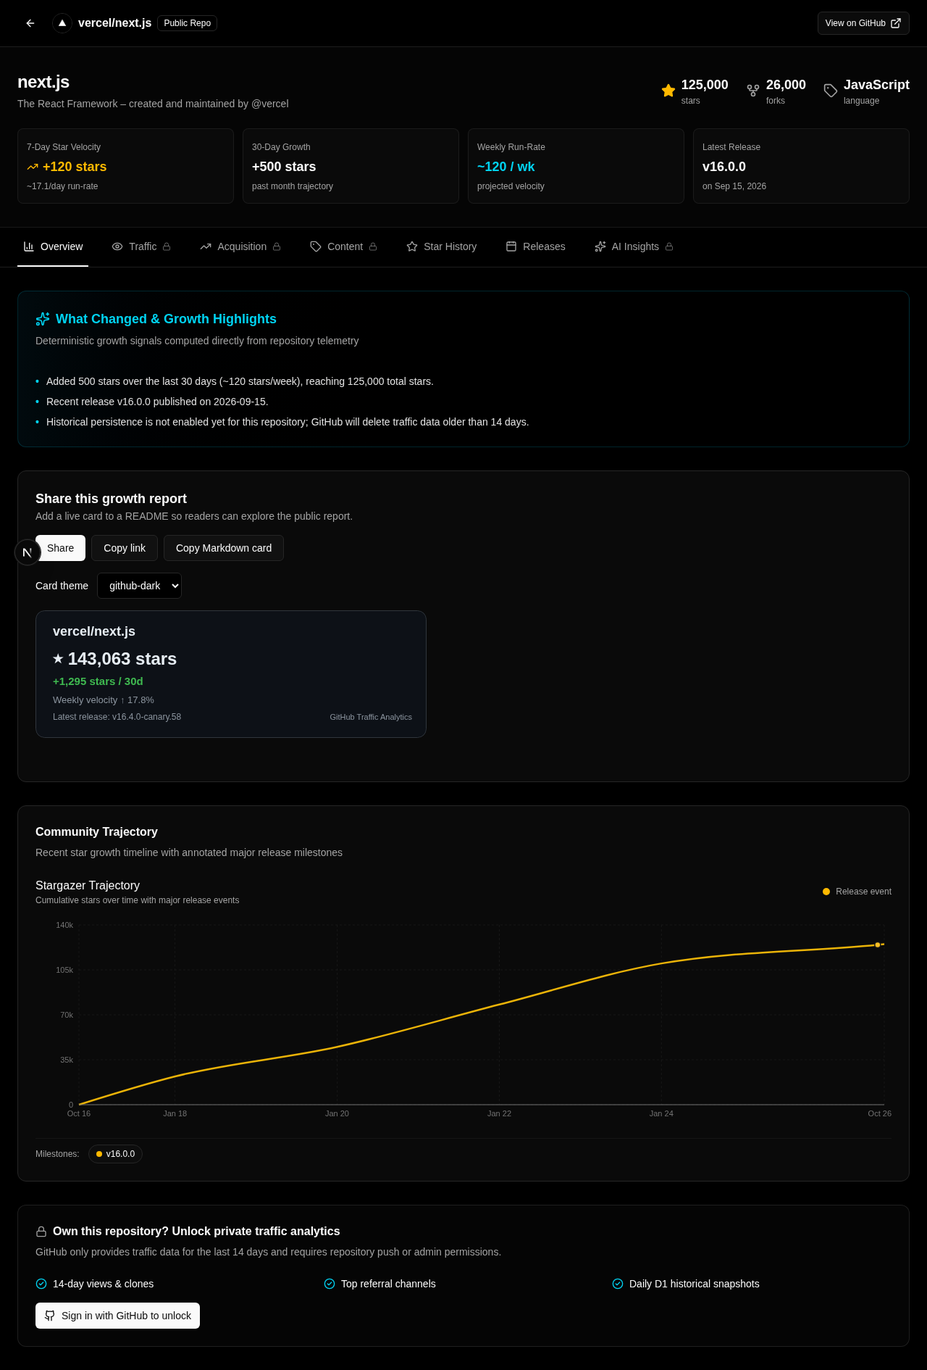
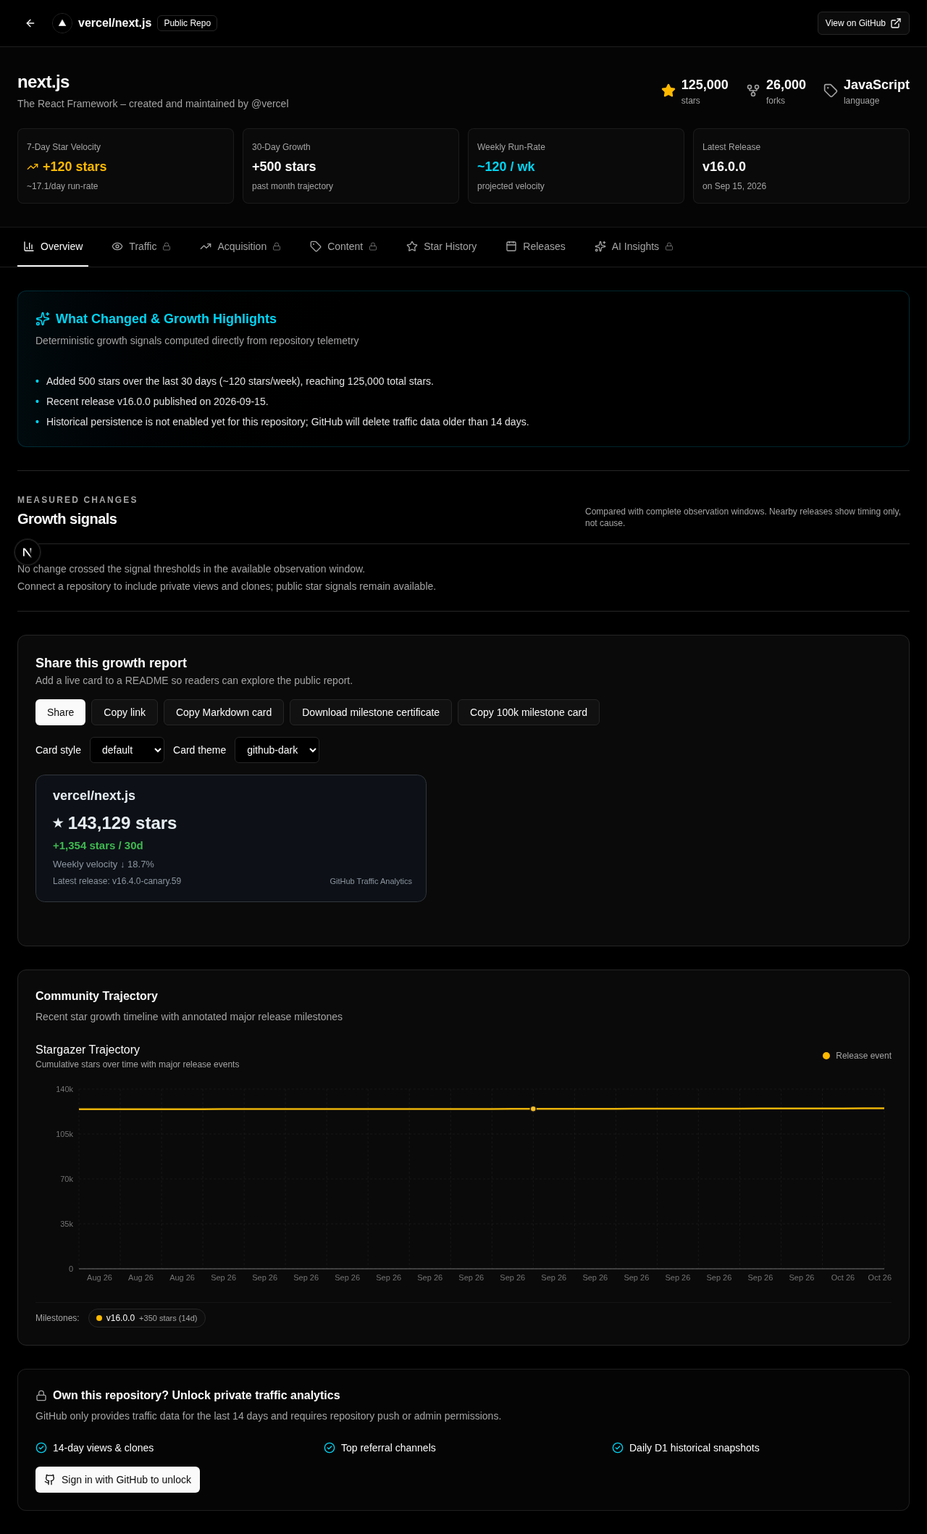
docs: add contributor guide, ADRs, changelog, and test hardening

diff --git a/src/app/api/certificate/[owner]/[repo]/route.ts b/src/app/api/certificate/[owner]/[repo]/route.ts
@@ -21,14 +21,20 @@ export async function GET(
     parsed.repo !== repo ||
     (value !== null && !isStarMilestone(Number(value)))
   ) {
-    return new Response("Invalid repository or milestone", { status: 400 });
+    return new Response("Invalid repository or milestone", {
+      status: 400,
+      headers: { "Cache-Control": "private, no-store" },
+    });
   }
   try {
     const analysis = await publicGitHub.analyzePublicRepository(owner, repo);
     const milestone =
       value === null ? getHighestMilestone(analysis.repository.starsCount) : Number(value);
     if (!milestone || analysis.repository.starsCount < milestone || !isStarMilestone(milestone)) {
-      return new Response("Repository has not reached this milestone", { status: 409 });
+      return new Response("Repository has not reached this milestone", {
+        status: 409,
+        headers: { "Cache-Control": "private, no-store" },
+      });
     }
     const svg = renderCertificate({
       fullName: analysis.repository.fullName,
@@ -48,9 +54,18 @@ export async function GET(
     });
   } catch (error) {
     if (error instanceof PublicRepoNotFoundError)
-      return new Response("Repository not found or private", { status: 404 });
+      return new Response("Repository not found or private", {
+        status: 404,
+        headers: { "Cache-Control": "private, no-store" },
+      });
     if (error instanceof PublicRepoRateLimitError)
-      return new Response("GitHub rate limit reached", { status: 503 });
-    return new Response("Certificate temporarily unavailable", { status: 503 });
+      return new Response("GitHub rate limit reached", {
+        status: 503,
+        headers: { "Cache-Control": "private, no-store" },
+      });
+    return new Response("Certificate temporarily unavailable", {
+      status: 503,
+      headers: { "Cache-Control": "private, no-store" },
+    });
   }
 }

diff --git a/tests/e2e/public-repo.spec.ts b/tests/e2e/public-repo.spec.ts
@@ -48,6 +48,12 @@ test.describe("Public Repository Growth Intelligence", () => {
     await expect(page.getByRole("button", { name: "Copy link" })).toBeVisible();
     await expect(page.getByRole("button", { name: "Copy Markdown card" })).toBeVisible();
     await expect(page.getByRole("button", { name: "Copy 100k milestone card" })).toBeVisible();
+    const certificateLink = page.getByRole("link", { name: "Download milestone certificate" });
+    await expect(certificateLink).toBeVisible();
+    await expect(certificateLink).toHaveAttribute(
+      "href",
+      "/api/certificate/vercel/next.js?milestone=100000"
+    );
     const growthCard = page.locator('img[src*="/api/card/vercel/next.js"]');
     await expect(growthCard).toBeVisible();
     await page.getByLabel("Card style").selectOption("sparkline");

diff --git a/src/components/ShareActions.tsx b/src/components/ShareActions.tsx
@@ -91,7 +91,7 @@ export default function ShareActions({
           Copy Markdown card
         </Button>
         {milestone && milestonePath && (
-          <Button asChild type="button" variant="outline">
+          <Button asChild variant="outline">
             <a
               href={`/api/certificate/${encodeURIComponent(owner)}/${encodeURIComponent(repo)}?milestone=${milestone}`}
               download

diff --git a/CONTRIBUTING.md b/CONTRIBUTING.md
@@ -9,38 +9,52 @@ Thank you for your interest in improving GitHub Traffic Analytics! We are buildi
 ## 🏗 Codebase Structure
 
 ```text
-src/
-├── app/
-│   ├── api/
-│   │   ├── card/[owner]/[repo]/ # Embeddable README SVG growth card generator
-│   │   ├── badge/               # Shields-style live views badge endpoint
-│   │   ├── public/repo/         # Unauthenticated public repository intelligence API
-│   │   ├── insights/            # Contextual AI streaming endpoint (Anthropic)
-│   │   ├── traffic/             # Authenticated GitHub traffic data proxy
-│   │   ├── track/               # Toggle snapshot tracking per repo
-│   │   ├── repositories/        # User repository listing with tracking status
-│   │   └── snapshots/           # Historical D1 snapshot queries
-│   ├── repo/[owner]/[repo]/     # Public canonical repository intelligence page
-│   ├── compare/                 # Multi-repository comparative trajectory analysis
-│   ├── repositories/            # Authenticated repository manager & portfolio view
-│   ├── traffic/                 # Authenticated 14-day & long-term traffic dashboard
-│   ├── page.tsx                 # Public homepage & instant repo analyzer
-│   └── layout.tsx               # Root application layout & navigation
-├── components/
-│   ├── StarHistoryChart.tsx     # Trajectory line chart with release event markers
-│   ├── ShareActions.tsx         # Share modal, copy link, and copy Markdown card
-│   ├── InsightsPanel.tsx        # Contextual AI explanation buttons
-│   ├── HistoricalTraffic.tsx    # Multi-month D1 historical views & clones chart
-│   └── TrafficDashboard.tsx     # Private traffic analytics visualization
-├── lib/
-│   ├── analytics.ts             # Deterministic math engine (velocity, momentum, release impact)
-│   ├── github-public.ts         # Unauthenticated typed public GitHub API client & cache
-│   ├── github.ts                # Authenticated Octokit traffic proxy
-│   ├── growth-card.ts           # Zero-dependency SVG generator & themes
-│   ├── badge.ts                 # Zero-dependency SVG shields badge renderer
-│   ├── insights.ts              # Zod validation & deterministic prompt construction for AI
-│   └── snapshots.ts             # Cloudflare D1 query layer for daily snapshots
-└── test/                        # Shared test setup, MSW handlers, and mocks
+├── action/                      # Standalone GitHub Action for traffic archiving into git branch
+├── integrations/
+│   ├── gh-traffic/              # Official GitHub CLI extension (`gh traffic view/compare/export`)
+│   ├── mcp-server/              # Model Context Protocol server for AI coding agents
+│   └── raycast/                 # Native Raycast macOS extension
+├── src/
+│   ├── app/
+│   │   ├── api/
+│   │   │   ├── card/            # Zero-dependency SVG cards (growth, comparison, milestone)
+│   │   │   ├── certificate/     # Milestone completion SVG certificates
+│   │   │   ├── badge/           # Shields-style live views badge endpoint
+│   │   │   ├── public/repo/     # Unauthenticated public repository intelligence API
+│   │   │   ├── v1/              # Versioned REST API v1 (`/api/v1/repositories/...`, `/api/v1/compare`)
+│   │   │   ├── report/          # Neutral weekly report delivery preview & scheduling
+│   │   │   ├── alerts/          # Webhook notifications (Slack, Discord)
+│   │   │   ├── digest/          # Email digest preferences and delivery
+│   │   │   ├── github-app/      # GitHub App setup & webhook handlers
+│   │   │   ├── traffic/         # Authenticated GitHub traffic data proxy
+│   │   │   ├── track/           # Toggle snapshot tracking per repo
+│   │   │   ├── repositories/    # User repository listing with tracking status
+│   │   │   └── snapshots/       # Historical D1 snapshot queries & CSV/JSON export
+│   │   ├── repo/[owner]/[repo]/ # Public canonical repository intelligence page
+│   │   ├── compare/             # Multi-repository comparative trajectory analysis
+│   │   ├── launch/[owner]/[repo]# Shareable launch event impact reports
+│   │   ├── repositories/        # Authenticated repository manager & portfolio view
+│   │   ├── traffic/             # Authenticated 14-day & long-term traffic dashboard
+│   │   ├── page.tsx             # Public homepage & instant repo analyzer
+│   │   └── manifest.ts          # PWA web app manifest
+│   ├── components/              # Shared UI components (Charts, Cards, Panels, Settings)
+│   ├── lib/
+│   │   ├── analytics.ts         # Deterministic math engine (velocity, momentum, release impact)
+│   │   ├── anomalies.ts         # Explainable anomaly detection engine
+│   │   ├── weekly-report.ts     # Delivery-neutral weekly analytics report generator
+│   │   ├── github-public.ts     # Unauthenticated typed public GitHub API client & cache
+│   │   ├── github.ts            # Authenticated Octokit traffic proxy
+│   │   ├── webhook-alerts.ts    # Slack / Discord webhook notification dispatcher
+│   │   ├── growth-card.ts       # Zero-dependency SVG generator & themes
+│   │   ├── comparison-card.ts   # Two-repository SVG comparison card renderer
+│   │   ├── milestone-card.ts    # Star milestone badge & threshold logic
+│   │   ├── certificate.ts       # Social milestone certificate SVG renderer
+│   │   └── snapshots.ts         # Cloudflare D1 query layer for daily snapshots
+│   └── test/                    # Shared MSW handlers, deterministic mock data, and test setup
+├── worker/
+│   ├── snapshot.ts              # Daily Cloudflare Cron Worker (traffic snapshotting)
+│   └── digest.ts                # Weekly Monday Cron Worker (email digests & alerts)
+└── docs/                        # Project documentation, launch kit, and ADRs
 ```
 
 ---
@@ -109,6 +123,45 @@ To add a new theme:
 
 ---
 
+## 🚨 How to Add a Deterministic Growth Signal
+
+Growth signals and anomalies in [`src/lib/anomalies.ts`](src/lib/anomalies.ts) provide explainable insights on traffic, stars, clones, and referrers without opaque heuristics:
+
+1. Define the signal type in `GrowthSignal['type']`.
+2. Implement the deterministic detection logic comparing observation windows against baseline history.
+3. Include explainable human-readable reasoning and release context when available.
+4. Add unit tests in [`src/lib/anomalies.test.ts`](src/lib/anomalies.test.ts) testing threshold edges and zero baselines.
+
+---
+
+## 🔔 How to Add a Notification Provider
+
+Webhook notifications are dispatched deterministically in [`src/lib/webhook-alerts.ts`](src/lib/webhook-alerts.ts):
+
+1. Define provider format in `WebhookPlatform` (`slack`, `discord`, `custom`).
+2. Construct payload adhering to the platform's incoming webhook schema.
+3. Ensure webhook URLs are stored encrypted in Cloudflare D1 (`app_alert_webhooks`) via [`src/lib/webhook-secrets.ts`](src/lib/webhook-secrets.ts).
+4. Add unit tests verifying delivery formatting and error handling.
+
+---
+
+## 🔌 Working with Integrations
+
+- **GitHub CLI Extension (`integrations/gh-traffic`)**: Standalone CLI extension wrapping public and authenticated endpoints. Test with `node index.js view owner/repo`.
+- **MCP Server (`integrations/mcp-server`)**: Model Context Protocol server exposing `analyze_repo_growth` and `explain_repo_changes` to agentic tools (Antigravity, Cursor, Claude Code). Run `pnpm --ignore-workspace build` and test with standard MCP JSON-RPC.
+- **Raycast Extension (`integrations/raycast`)**: macOS command bar extension. Run `pnpm --ignore-workspace run build` and `tsc --noEmit`.
+- **Standalone Action (`action/`)**: Standalone GitHub Action archiving traffic to `traffic-history` branch. Test with `node action/index.mjs`.
+
+---
+
+## 🧪 Test-Data Conventions
+
+- **Never mock external APIs with live network calls**: Use MSW (`src/test/msw.ts`) or `vi.fn()` for all Octokit/GitHub REST requests.
+- **Deterministic timestamps**: Always freeze time or use static ISO strings (`2026-10-01T00:00:00Z`) when testing date-dependent formulas.
+- **Explicit error paths**: Always verify 400, 404, 409, 429, and 503 scenarios with appropriate `Cache-Control: private, no-store` responses.
+
+---
+
 ## 🧪 Running Tests & Quality Gates
 
 All pull requests must pass the project's quality gates:
@@ -120,17 +173,26 @@ pnpm lint
 # 2. TypeScript compilation
 pnpm typecheck
 
-# 3. Unit and component tests with coverage (must satisfy ≥ 80% thresholds)
+# 3. Code formatting check
+pnpm format:check
+
+# 4. Unit and component tests with coverage (must satisfy ≥ 80% thresholds)
 pnpm test:coverage
 
-# 4. Production Next.js build
+# 5. Production Next.js build
 pnpm build
 
-# 5. Playwright end-to-end test suite
-pnpm test:e2e
+# 6. Playwright end-to-end test suite
+CI=true pnpm test:e2e
 
-# 6. Documentation site build
-cd docs && pnpm install --frozen-lockfile && pnpm build && cd ..
+# 7. Cloudflare Worker OpenNext bundle build
+SKIP_ENV_VALIDATION=true pnpm cf:build
+
+# 8. Production dependency security audit
+pnpm audit --prod
+
+# 9. Documentation site build
+cd docs && pnpm install --ignore-workspace --frozen-lockfile && pnpm build && cd ..
 ```
 
 ---

diff --git a/CHANGELOG.md b/CHANGELOG.md
@@ -1,0 +1,49 @@
+<!-- SPDX-License-Identifier: MIT -->
+
+# Changelog
+
+All notable changes to this project will be documented in this file.
+The format is based on [Keep a Changelog](https://keepachangelog.com/en/1.0.0/),
+and this project adheres to [Semantic Versioning](https://semver.org/spec/v2.0.0.html).
+
+## [2.0.0] - 2026-10-04
+
+### 🌟 Public Growth Intelligence Engine
+
+- **Zero-Login Public Analysis (`/repo/[owner]/[repo]`)**: Instant growth intelligence for any public GitHub repository without sign-in or OAuth scopes.
+- **Deterministic Velocity & Momentum**: 7-day velocity, 30-day velocity, weekly run-rate, moving averages, and transparent 0–100 momentum score based on acceleration ratios.
+- **Release Event Timeline & Impact**: Temporal association analysis measuring repository star velocity in a 14-day pre-release vs 14-day post-release window with strictly non-causal language.
+- **Shareable Launch Reports (`/launch/[owner]/[repo]?tag=...`)**: Public launch impact summaries with before/after velocity deltas and share actions.
+- **Multi-Repository Comparison (`/compare?repos=...`)**: Side-by-side growth trajectory comparison for 2–4 repositories with shareable URL state.
+- **Embeddable README Growth Cards (`/api/card/[owner]/[repo]`)**: Zero-dependency SVG cards with default and sparkline variants across six developer themes (`github-dark`, `github-light`, `transparent`, `dracula`, `nord`, `catppuccin`).
+- **Two-Repository Comparison Cards (`/api/card/compare?a=...&b=...`)**: Dynamic README SVG comparing stars, 7d/30d growth, and weekly run-rates between two repositories.
+- **Verified Star Milestone Cards (`/api/card/milestone/[owner]/[repo]`)**: Shareable SVG cards celebrating verified repository star milestones (100, 500, 1k, 5k, 10k, 25k, 50k, 100k, 250k, 500k, 1M). Rejects milestones not yet reached.
+- **Milestone Vector Certificates (`/api/certificate/[owner]/[repo]`)**: High-resolution downloadable SVG certificates for social announcements and maintainer portfolios.
+- **Dynamic OpenGraph & Twitter Unfurls**: Native Next.js 16 Edge OpenGraph image generation with live repository stars and velocity statistics.
+- **Contextual AI Explanations**: Server-side structured Claude Haiku streaming explaining precomputed telemetry without hallucinating math.
+
+### 🔒 Private Traffic Retention & Security
+
+- **14-Day Window Bypass**: Daily automated Cloudflare Cron Worker snapshotting views and clones into Cloudflare D1.
+- **Historical Traffic Dashboard**: Views, unique visitors, clones, unique cloners, top referrers, and popular content paths with multi-month historical persistence.
+- **Deterministic Anomaly Detection**: Explainable signals for traffic surges, clone spikes, referrer shifts, and release acceleration.
+- **CSV & JSON Snapshot Exports**: One-click download of all D1-persisted historical traffic snapshots for authorized repository owners.
+- **Weekly Delivery-Neutral Reports**: Complete-window weekly analytics summaries previewable by owners.
+- **Opt-in Weekly Email Digest**: Timezone-aware Monday morning email digest to verified GitHub emails with duplicate prevention and one-click unsubscribe.
+- **Encrypted Webhook Growth Alerts**: Instant Discord and Slack notifications on star milestones or traffic surges, with webhook URLs AES-GCM encrypted in D1.
+- **GitHub App Installation Tracking**: Support for organization-wide installation and fine-grained repository permissions without wide user OAuth scopes.
+- **Automated GitHub Discussion / Issue Delivery**: Scheduled delivery of weekly traffic summaries directly into repository discussions or tracking issues.
+
+### 🔌 Multi-Surface Developer Distribution
+
+- **Official GitHub CLI Extension (`gh traffic`)**: Query velocity, compare projects, and export snapshots directly from developer terminals (`gh traffic view`, `gh traffic compare`).
+- **Model Context Protocol (MCP) Server (`integrations/mcp-server`)**: Expose deterministic repository telemetry to AI coding agents (Antigravity, Cursor, Claude Code).
+- **Raycast macOS Extension (`integrations/raycast`)**: Instant keyboard-driven lookup of star velocity, comparisons, and one-click Markdown card copying.
+- **Standalone GitHub Action (`action/`)**: Zero-infrastructure traffic archiving to a `traffic-history` git branch.
+- **Versioned Public REST API v1 (`/api/v1/...`)**: Compact JSON endpoints for public repository intelligence and comparison.
+- **Progressive Web App (PWA)**: Web app manifest and mobile icon support for desktop and mobile installation.
+
+### ⚙ Architecture & Reliability
+
+- **Edge Runtime**: Migrated to Next.js 16 on Cloudflare Workers via `@opennextjs/cloudflare` with Cloudflare D1.
+- **Zero-Vulnerability Security Posture**: Production dependency audit verified with 0 vulnerabilities; strict input sanitization and XML escaping on all SVG endpoints.

diff --git a/docs/adr/0001-deterministic-analytics-core.md b/docs/adr/0001-deterministic-analytics-core.md
@@ -1,0 +1,38 @@
+<!-- SPDX-License-Identifier: MIT -->
+
+# ADR 0001: Deterministic Analytics Core
+
+## Status
+
+Accepted
+
+## Context
+
+GitHub Traffic Analytics is accessed through multiple client surfaces and delivery channels:
+
+1. Public Web UI (`/repo/[owner]/[repo]`, `/compare`, `/launch/[owner]/[repo]`)
+2. Private Traffic Dashboard (`/traffic`, `/repositories`)
+3. Embeddable SVG Cards (`/api/card/...`, `/api/card/compare`, `/api/card/milestone/...`, `/api/certificate/...`)
+4. Versioned Public REST API (`/api/v1/...`)
+5. Official GitHub CLI Extension (`gh traffic`)
+6. Model Context Protocol (MCP) Server for AI coding agents (Antigravity, Cursor, Claude Code)
+7. Raycast macOS Extension
+8. Standalone GitHub Action (`action/`)
+9. Automated Scheduled Delivery (Email digests, Discord/Slack webhooks, GitHub Discussions/Issues)
+
+In early prototyping, there was a risk that analytics math (such as star velocity, acceleration ratio, momentum score, release window impact, or anomaly detection) could diverge across these interfaces or rely on nondeterministic LLM evaluation.
+
+## Decision
+
+All analytics calculations are strictly isolated as **pure, deterministic TypeScript functions** in `src/lib/analytics.ts`, `src/lib/anomalies.ts`, and `src/lib/weekly-report.ts`:
+
+1. **Zero LLM Math:** Language models are strictly prohibited from calculating numbers, ratios, or statistical anomalies. LLMs are downstream-only consumers used exclusively to generate prose explanations of precomputed, verified telemetry.
+2. **Surface Independence:** Every interface (Web UI, API v1, SVG Cards, CLI, MCP Server, Raycast Extension, and Cron Workers) imports and evaluates the exact same domain functions or calls the single versioned REST API.
+3. **Non-Causal Language:** Temporal associations (e.g., comparing star velocity 14 days before vs. 14 days after a release tag) are always articulated as non-causal observations, preserving scientific integrity.
+4. **Zero-Dependency SVG Rendering:** All embeddable cards and certificates are generated using pure string templating with strict XML escaping and accessible `<title>`/`<desc>` attributes, ensuring microsecond cold-start latency and zero external library bloat.
+
+## Consequences
+
+- **Consistency:** Maintainers see the exact same star velocity, momentum scores, and anomaly alerts whether viewing the Web dashboard, running `gh traffic view`, querying through an AI agent via MCP, or reading an automated weekly report.
+- **Testability:** Analytics math can be tested with 100% deterministic coverage without spinning up servers, browsers, or LLM mocks.
+- **Portability:** The analytics core has zero browser or Node.js runtime dependencies, allowing it to run seamlessly on Cloudflare Workers, Edge middleware, serverless functions, or local CLI runtimes.

diff --git a/docs/adr/0003-multi-surface-distribution.md b/docs/adr/0003-multi-surface-distribution.md
@@ -1,0 +1,37 @@
+<!-- SPDX-License-Identifier: MIT -->
+
+# ADR 0003: Multi-Surface Distribution Architecture
+
+## Status
+
+Accepted
+
+## Context
+
+Open-source developer tools often struggle with user acquisition because they require users to repeatedly visit a separate web dashboard. Developer workflows naturally happen across diverse environments:
+
+- In developer terminals (`git`, `gh`)
+- In IDEs and AI coding agents (Antigravity, Cursor, Claude Code)
+- In desktop application launchers (Raycast on macOS)
+- In CI/CD pipelines (GitHub Actions)
+- In team communication channels (Slack, Discord)
+- In repository collaboration spaces (GitHub Discussions, Issues)
+
+## Decision
+
+We treat **distribution surfaces as first-class citizens**, powered by a single core analytics engine:
+
+1. **Web Dashboard:** Interactive exploration, comparative analysis, launch reports, and configuration.
+2. **Embeddable SVG Cards:** Zero-dependency growth and comparison cards designed to be copy-pasted into READMEs, driving organic viral discovery.
+3. **Milestone Certificates:** Exportable SVG vector certificates celebrating star milestones (1k, 5k, 10k, 25k, etc.) for social and release announcements.
+4. **GitHub CLI Extension (`gh traffic`):** Terminal-native insights for command-line developers.
+5. **Model Context Protocol (MCP) Server:** Structured JSON-RPC tools enabling AI agents to reason over repository telemetry.
+6. **Raycast Extension:** Instant keyboard-driven lookup and card copying on macOS.
+7. **Standalone GitHub Action:** Direct git-branch archiving for maintainers who do not wish to use hosted databases.
+8. **Automated Report Delivery:** Timezone-aware Monday digests to verified emails, Slack/Discord webhooks, and GitHub Issues/Discussions.
+
+## Consequences
+
+- Every surface acts as an organic acquisition loop back to the open-source repository.
+- Developers interact with traffic analytics within their existing daily workflows rather than having to remember a bookmark.
+- The underlying architecture remains unified because all surfaces share the same pure TypeScript analytics core or query the versioned `/api/v1/` REST endpoints.

diff --git a/docs/adr/0002-edge-first-cloudflare-d1.md b/docs/adr/0002-edge-first-cloudflare-d1.md
@@ -1,0 +1,33 @@
+<!-- SPDX-License-Identifier: MIT -->
+
+# ADR 0002: Edge-First Runtime with Cloudflare Workers and D1
+
+## Status
+
+Accepted
+
+## Context
+
+GitHub native traffic analytics (views and clones) are ephemeral: GitHub automatically discards all historical traffic after 14 days. To deliver long-term growth intelligence without operational bloat, GitHub Traffic Analytics requires:
+
+1. Automated daily snapshots of views, clones, referrers, and paths for opted-in repositories.
+2. Low-latency edge delivery of dynamic SVG cards and badges to developer READMEs worldwide.
+3. Minimal operational maintenance and zero monthly fixed server overhead.
+
+Traditional architectures would employ containerized servers (e.g. Node.js on VPS/Kubernetes), persistent Redis instances, and centralized PostgreSQL databases.
+
+## Decision
+
+We adopt an **Edge-First Architecture** built entirely on the Cloudflare ecosystem:
+
+1. **Application Runtime:** Next.js 16 deployed to Cloudflare Workers via `@opennextjs/cloudflare`.
+2. **Database:** Cloudflare D1 (serverless SQL based on SQLite) for structured persistence of snapshots, tracked repositories, user alert preferences, and weekly digests.
+3. **Scheduled Ingestion:** Cloudflare Cron Triggers executing lightweight worker scripts (`worker/snapshot.ts` and `worker/digest.ts`) directly against D1.
+4. **Zero State in Memory:** All persistent state resides in D1 or encrypted httpOnly session cookies. Public API requests utilize Edge Memory Caches with explicit TTLs (5 minutes for repository intelligence, 10–60 minutes for SVG cards).
+
+## Consequences
+
+- **Global Latency:** SVG cards, certificates, and API endpoints are served from edge locations proximate to users and GitHub README viewers.
+- **Reliability:** Serverless Workers scale automatically with zero cold-start penalty compared to containerized runtimes.
+- **Cost & Maintenance:** No servers to patch, upgrade, or manage. Development and testing use local SQLite / Miniflare environments.
+- **Isolation:** Private traffic data is partitioned and protected behind encrypted tokens, ensuring public routes never access private D1 tables.
